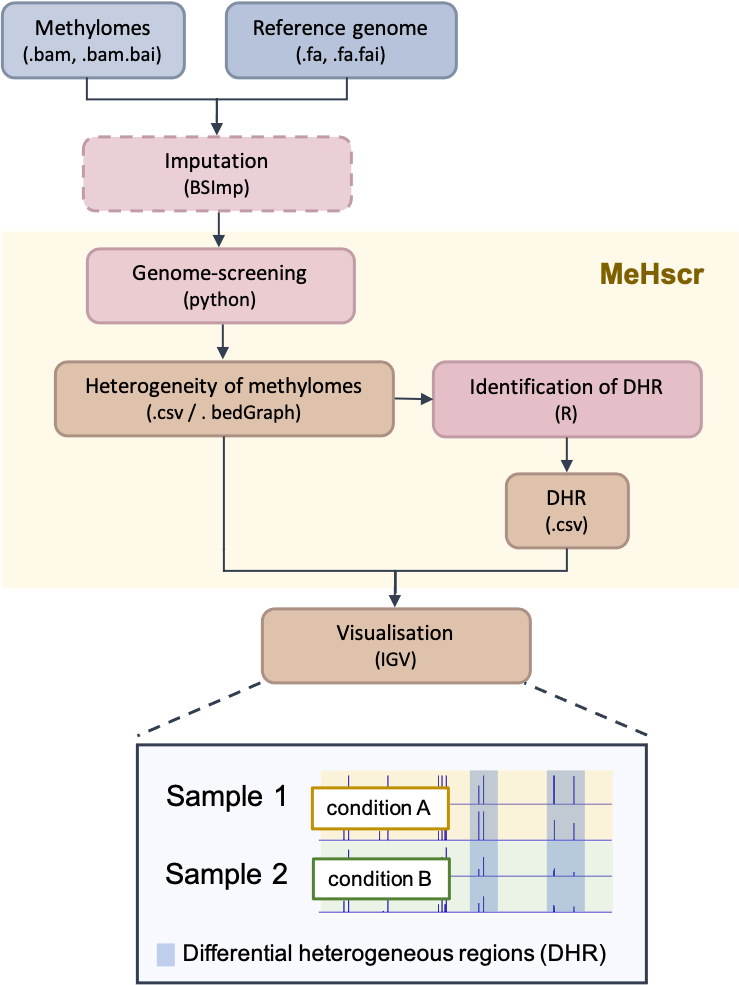
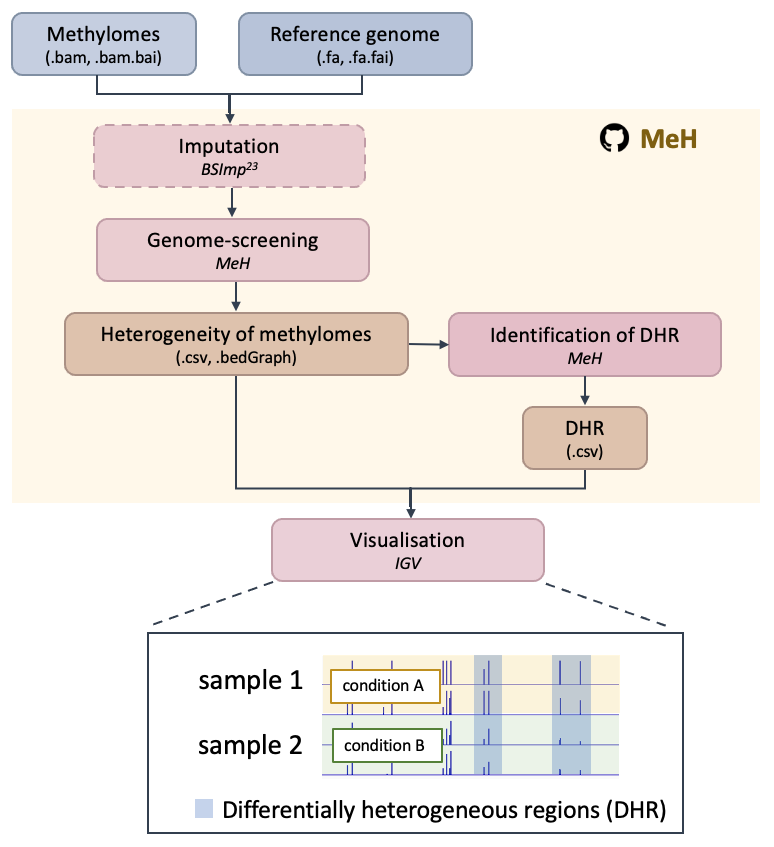
update readme

diff --git a/README.md b/README.md
@@ -1,6 +1,6 @@
-# MeHscr :sheep:
+# MeH :sheep:
 
-:mega: DNA methylation heterogeneity (**MeH**) measures the epigenetic diversity within a cell population where the behaviour of individual cells can vary as differential responses to the environmental stimuli or dynamic progression of cellular development.
+:mega: DNA methylation heterogeneity measures the epigenetic diversity within a cell population where the behaviour of individual cells can vary as differential responses to the environmental stimuli or dynamic progression of cellular development.
 
 ![Github All Releases](https://img.shields.io/github/downloads/britishcoffee/MeHscr/total.svg?style=for-the-badge)             ![issue](https://img.shields.io/github/issues/britishcoffee/MeHscr?style=for-the-badge)              ![star](https://img.shields.io/github/stars/britishcoffee/MeHscr?style=for-the-badge) 
 
